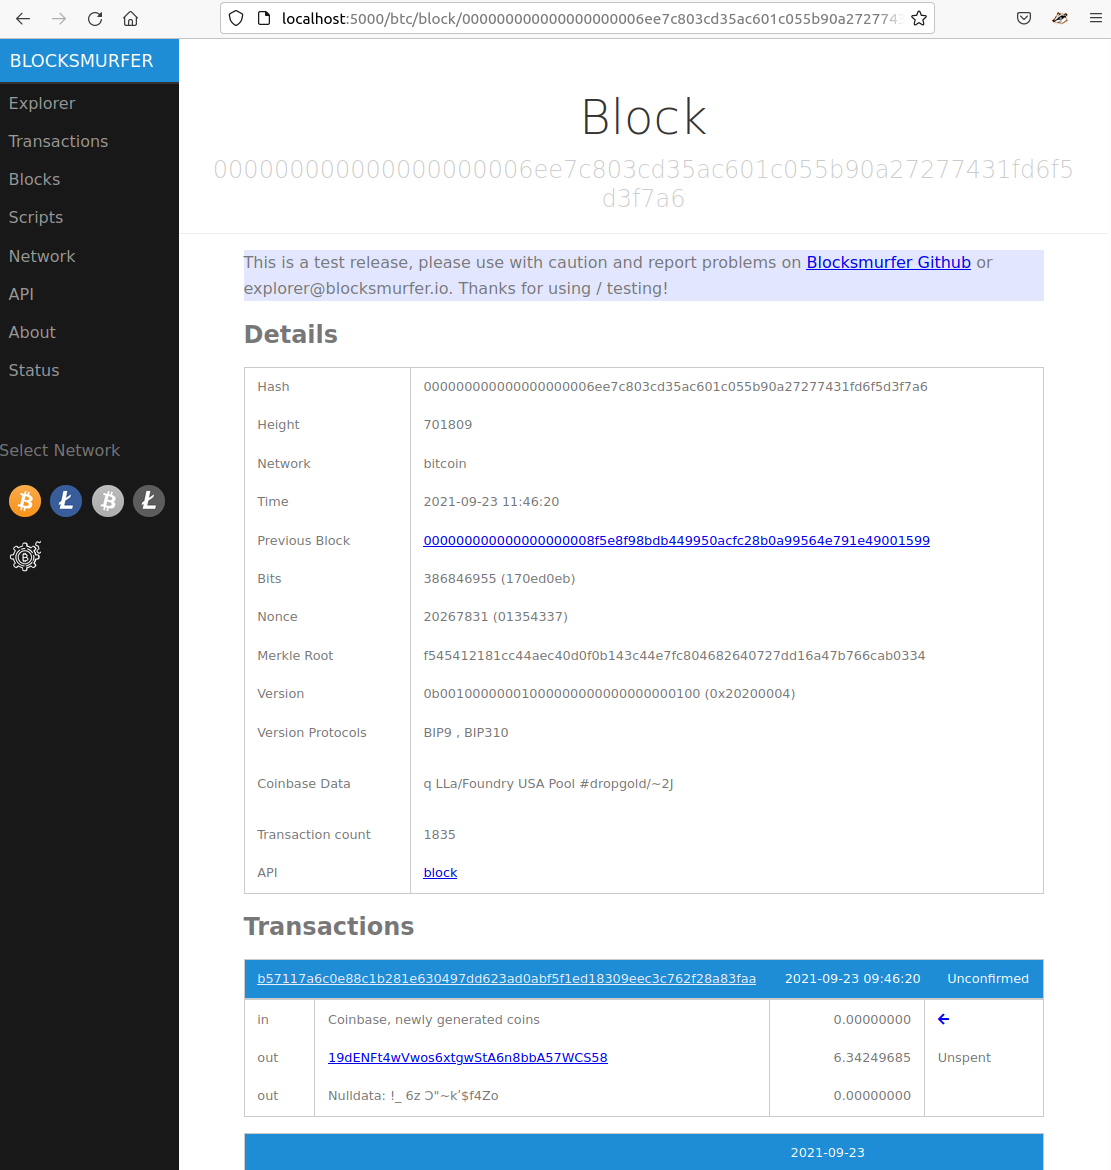
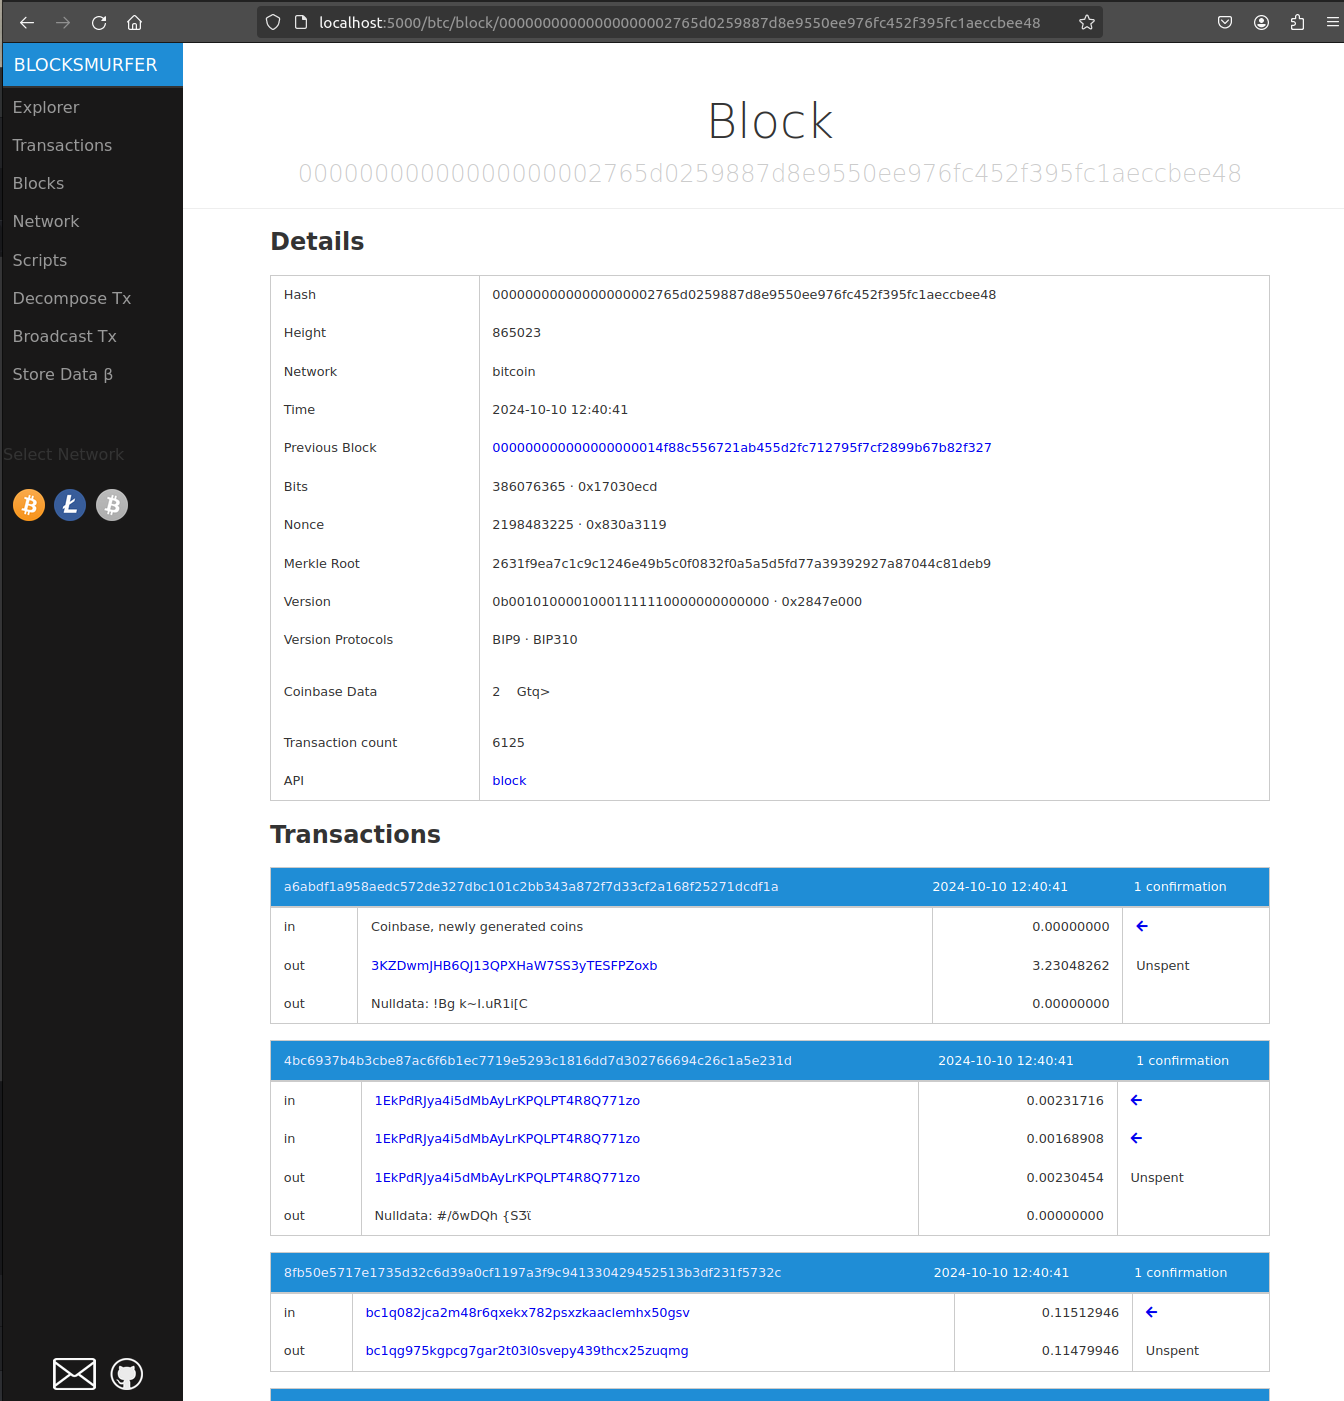
Update readme, add recent screenshots

Changed region(s): [[0.0, 0.0, 1.0, 1.0], [0.8569, 0.6769, 0.8875, 0.7077]]

diff --git a/README.rst b/README.rst
@@ -10,10 +10,12 @@ Blocksmurfer
 .. image:: https://coveralls.io/repos/github/1200wd/blocksmurfer/badge.svg?branch=master
     :target: https://coveralls.io/github/1200wd/blocksmurfer?branch=master    
 
-Install and run a local block explorer.
+Install and run a local Bitcoin block explorer.
 
 Bitcoin blockchain explorer based on Python Bitcoinlib (https://github.com/1200wd/bitcoinlib).
 Search the blockchain for addresses, transactions, blocks, unspent outputs, etc.
+
+Decompose and analyse complex Bitcoin transactions, scripts, signatures and keys.
 
 This software currently runs on https://blocksmurfer.io
 
@@ -21,13 +23,13 @@ Data will be retrieved from various service providers such as Blockchair, Blockc
 Blocksmurfer can also receive data from a local bcoin or bitcoind server.
 
 .. image:: https://blocksmurfer.io/static/images/blocksmurfer_transaction.png
-    :alt: Run a bitcoin block explorer locally
+    :alt: Look into transaction details, transaction inputs and outputs
 
 .. image:: https://blocksmurfer.io/static/images/blocksmurfer_block.png
-    :alt: Run a bitcoin block explorer locally
+    :alt: Analyse blocks - Run a bitcoin block explorer locally
 
 .. image:: https://blocksmurfer.io/static/images/blocksmurfer_script.png
-    :alt: Run a bitcoin block explorer locally
+    :alt: Decompose complex bitcoin scripts, analyse keys, signatures and witness data
 
 
 Installation
